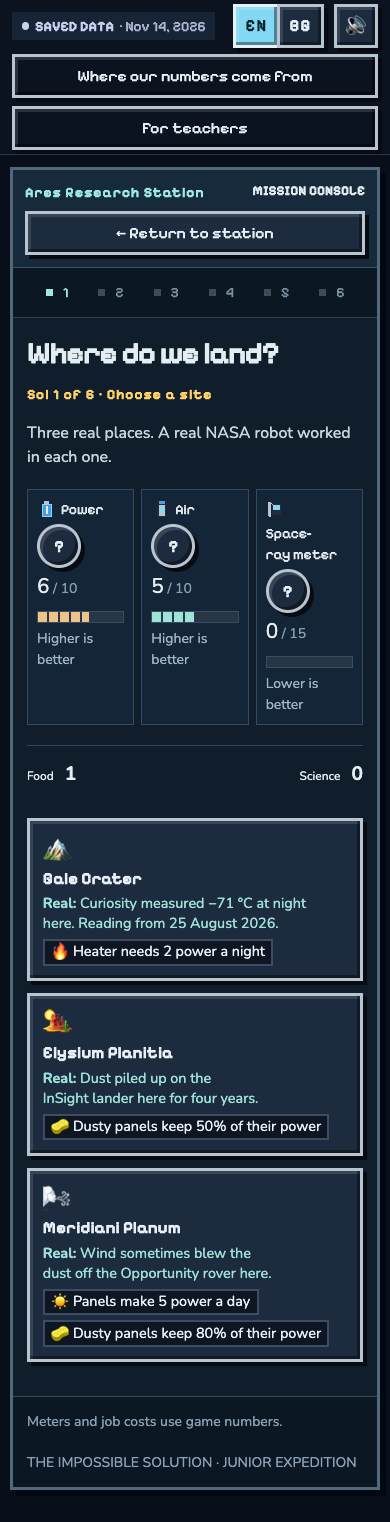
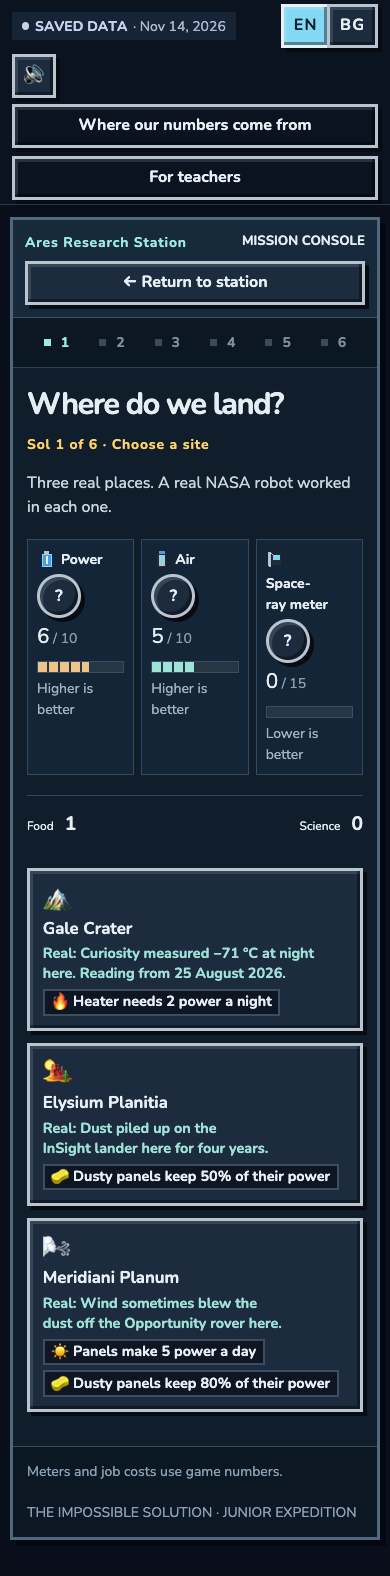
Readable type (owner feedback): labels, buttons and headings use bold Nunito in both languages; only the game title keeps the pixel font

Changed region(s): [[0.0308, 0.0, 0.9846, 0.8955], [0.0308, 0.9264, 0.9538, 0.9882], [0.3385, 0.4632, 0.3692, 0.4941]]

diff --git a/src/ui.css b/src/ui.css
@@ -121,9 +121,12 @@ button:focus-visible, summary:focus-visible, a:focus-visible, canvas:focus-visib
   .console-top > button, .station-header > button { flex: 1 1 auto; }
 }
 
-/* Pixelify Sans Cyrillic is hard to read at small sizes (kids misread "сол"): Bulgarian uses bold Nunito for headings and buttons. */
-:root:lang(bg) { --font-pixel: var(--font-body); }
-:root:lang(bg) :is(button, summary, h1, h2, h3, .eyebrow, .sol-tag, .step-label, .meter-label, .console-top b, .sol-navigation > span, .data-badge) { font-weight: 700; }
+/* Owner feedback (15 Nov): the pixel font is hard to read. Every label, button and heading now uses bold Nunito
+   in both languages; the 8-bit look stays in the borders, stepped shadows and sprites. Only the game's title
+   keeps the pixel font. To bring it back everywhere, delete the next three rules. */
+:root { --font-pixel: var(--font-body); }
+:is(button, summary, h1, h2, h3, .eyebrow, .sol-tag, .step-label, .meter-label, .console-top b, .sol-navigation > span, .data-badge, .job-copy strong, .crew-tile strong, .mission-card strong, .beat-option strong) { font-weight: 700; }
+:root:not(:lang(bg)) .menu-story h1 { font-family: "Pixelify Sans", var(--font-body); font-weight: 400; }
 /* A 44 px link inside a chip must grow the chip, not spill onto the next card. */
 p.chip { display: flex; flex-wrap: wrap; align-items: center; column-gap: 0.35rem; }
 /* A job card with no astronaut picked yet looks "not ready" but still answers when tapped. */

diff --git a/src/run.css b/src/run.css
@@ -52,3 +52,5 @@
 .domino-tile .domino-icon { font-size: 1.6rem; }
 .chain-times { color: #ffd166; margin: 0.2rem 0 0; }
 .more-chains > summary { margin: 0.5rem 0; }
+/* Inside a card only the name is bold; the detail lines stay regular weight so they are easy to read. */
+.mission-card small, .mission-card .mission-meta, .mission-card .mission-tags, .beat-option small, .beat-effects, .beat-cannot { font-weight: 400; }
